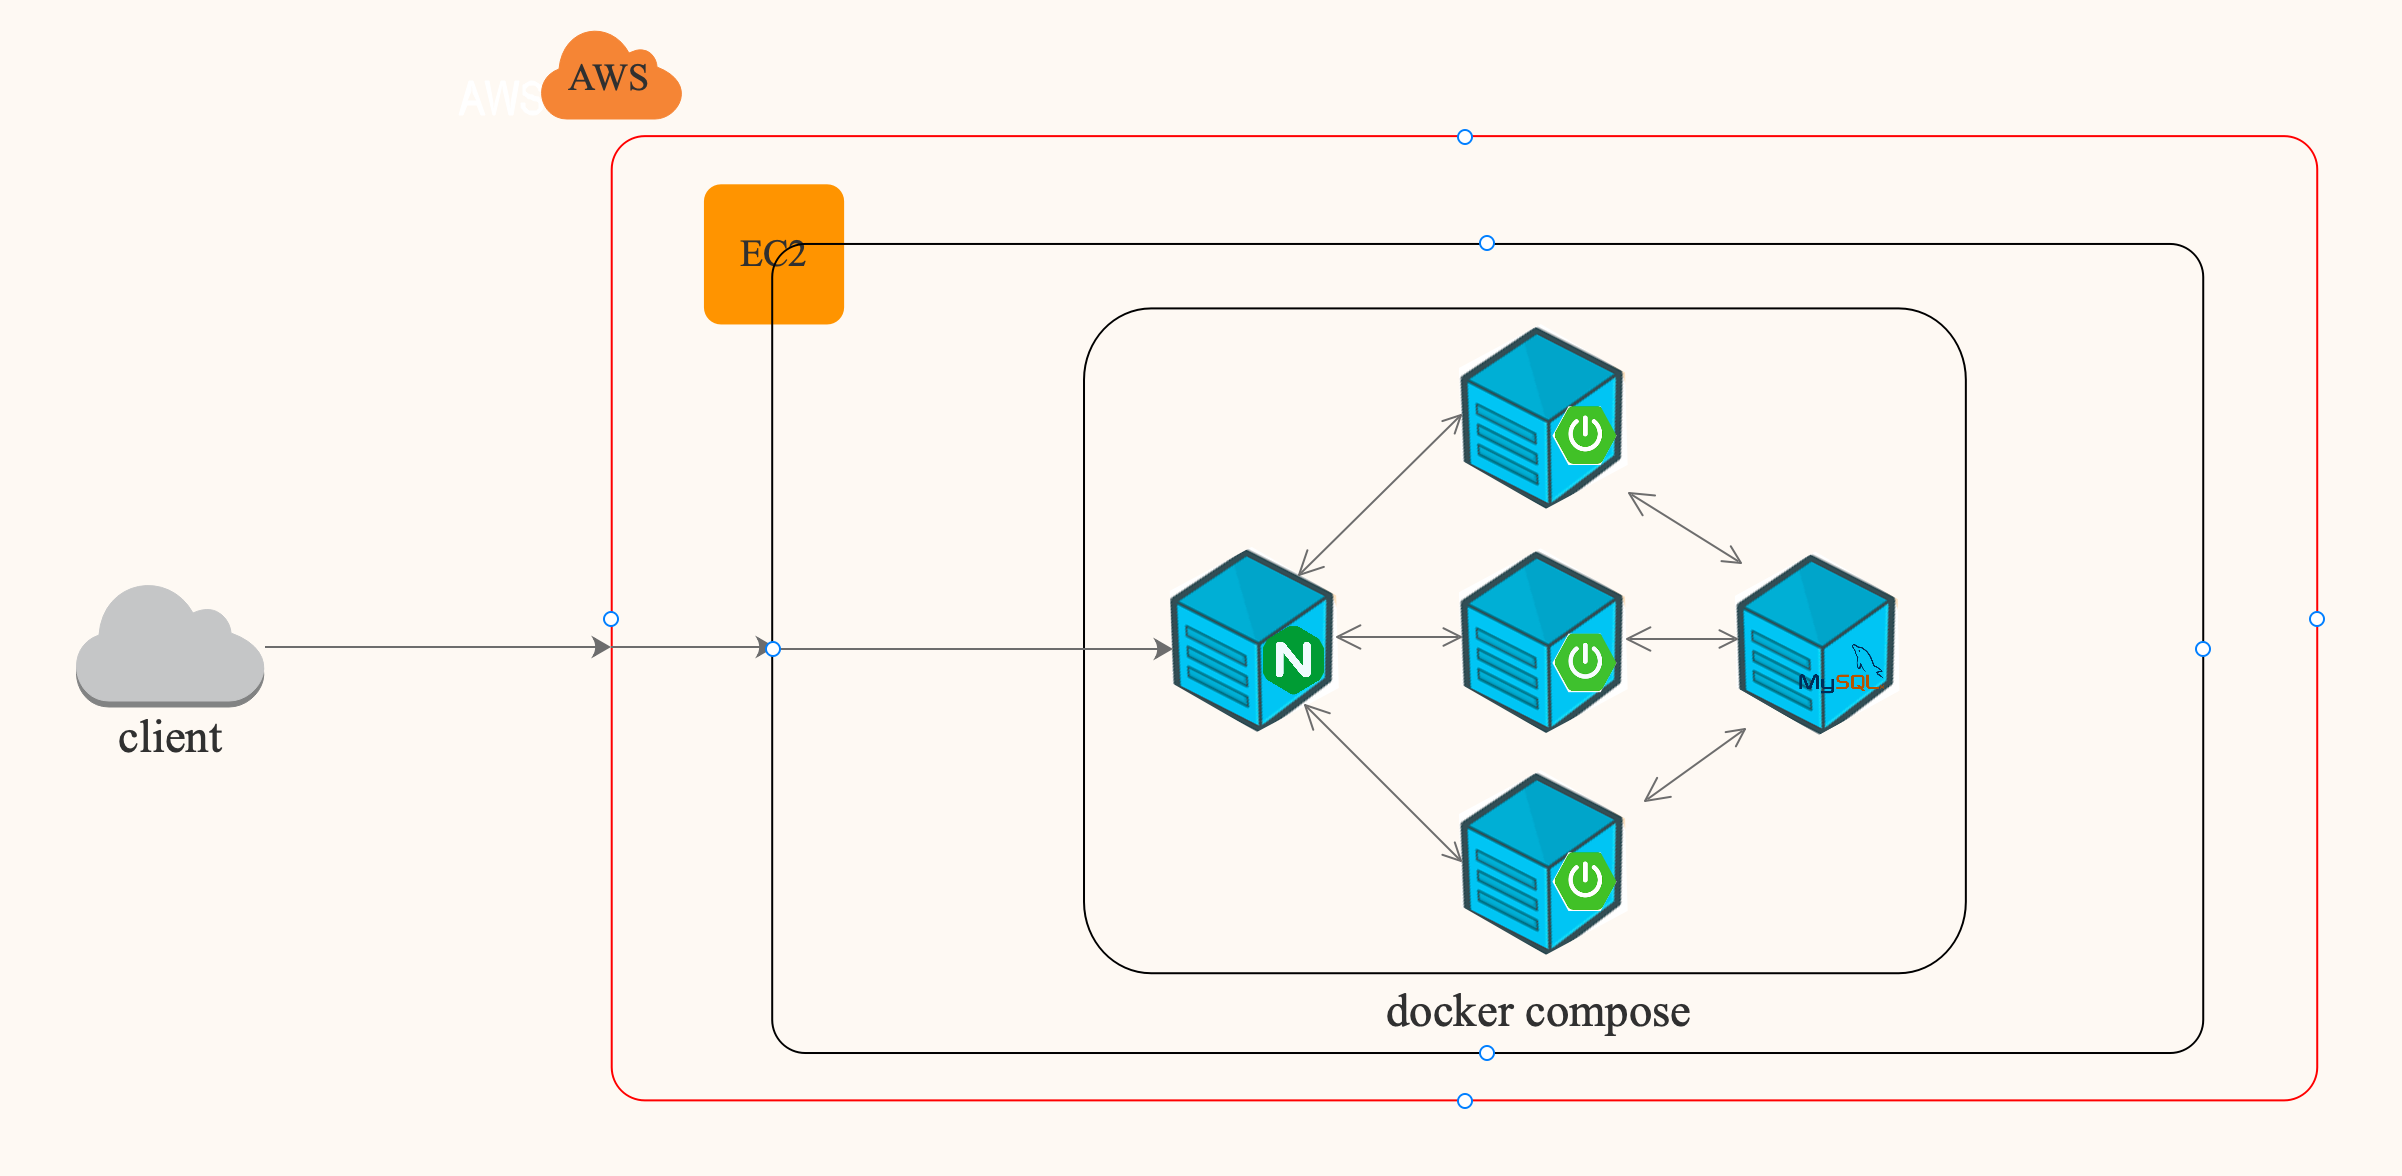
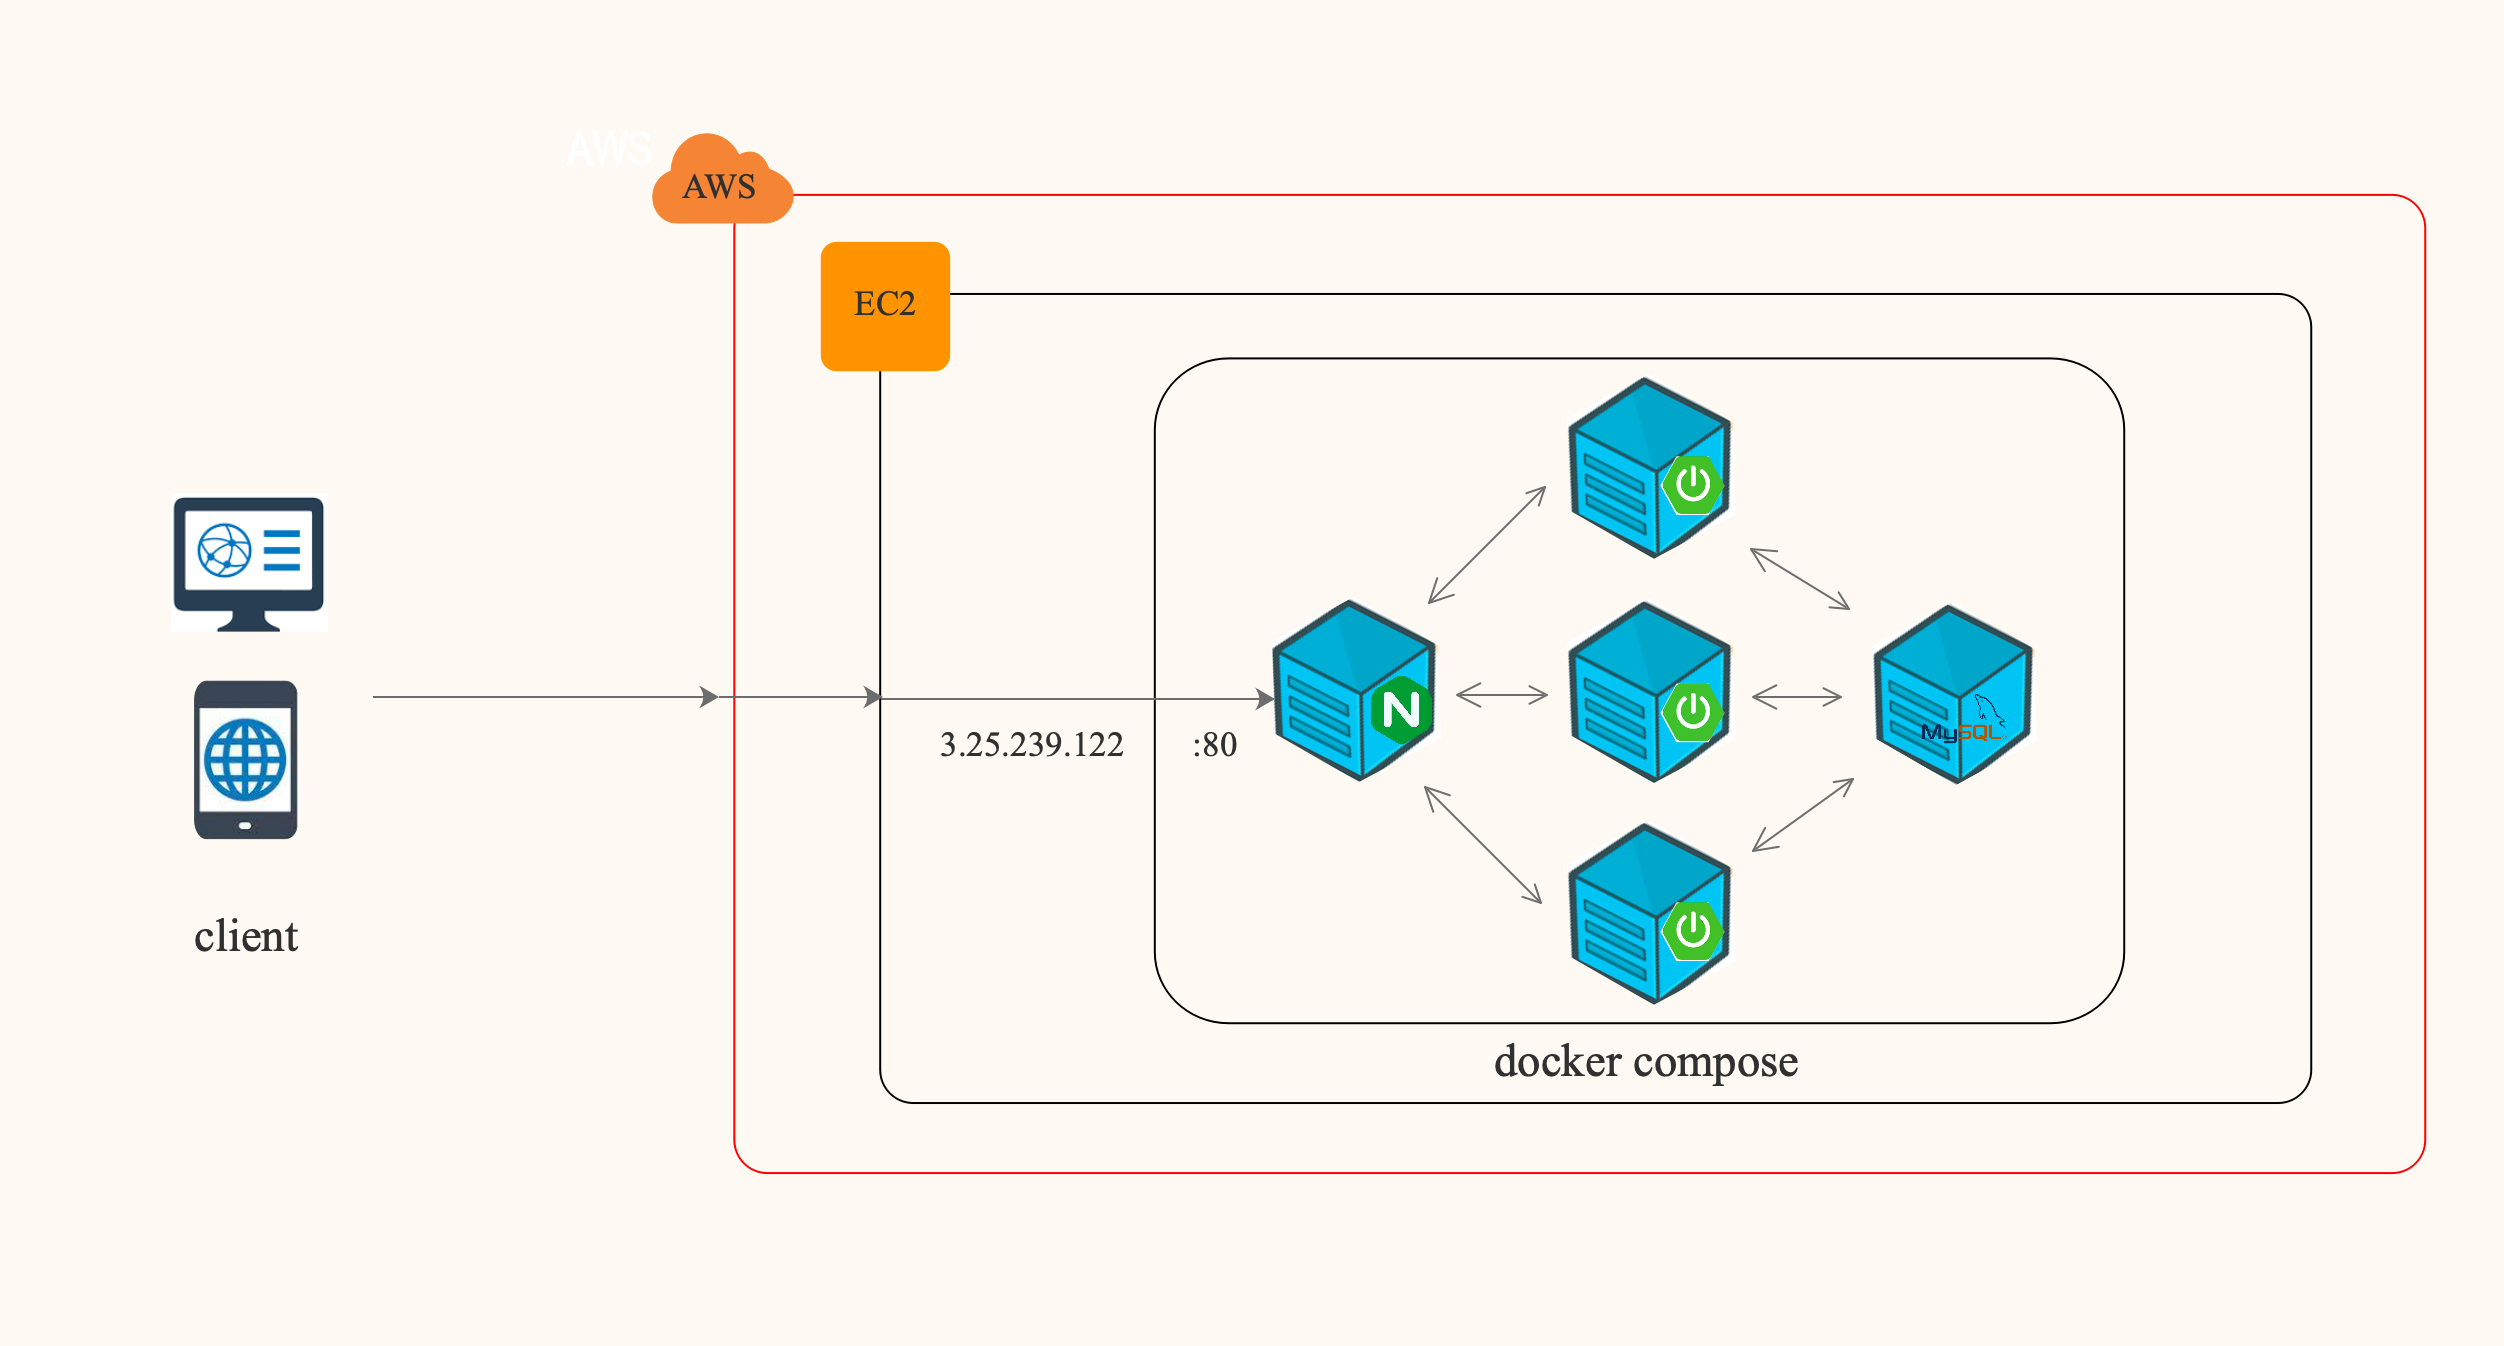
readme

diff --git a/README.md b/README.md
@@ -3,15 +3,89 @@
 지원자 : 김노아
 
 ## Architecture
-<img src="./img/architecture.png" width="600" height="300">
+<img src="./img/architecture.png">
+<br/>
 
 ## TABLE ERD
-<img src="./img/ERD.png" style="float: left;" width="350" height="300">
-<br/><br/><br/><br/><br/><br/><br/><br/><br/><br/><br/><br/><br/><br/>
+<img src="img/erd.png" style="float: left;">
+<br/>
+
+## 구현 설명
+### Spring Security 도입
+- 인증 기능을 제공하기 위해 Spring Security를 도입하였습니다.
+  - 역할 분담과 유연성, Spring Boot의 통합된 보안 기능 제공  
+  - 모듈화되어 확장성 및 커스터마이징을 할 수 있음 
+
+#### Login
+- 로그인을 핸들러에서 처리하는 것이 아닌, 필터단에서 처리하도록 하였습니다. 
+- 핸들러까지 갈 필요가 없으며, 간결하고 명확한 역할 분리를 위해 도입하였습니다.
+- `UsernamePasswordAuthenticationFilter`를 확장하여 구현하였습니다 
+  - 인증을 담당하는 `LoginProvider`를 구현하였습니다.
+  - 각 상황별 역할을 담당하는 `LoginSuccessHandler`, `LoginFailureHandler`를 구현하였습니다. 
+
+#### Authentication with Jwt Token
+- 인증이 필요한 API는 handler까지 요청이 도달하기 전에, 인증 헤더값인 access token 값을 검증을 위해 `JwtAuthenticationFilter`를 거치도록 하였습니다.
+- 인증이 필요하지 않은 API는 spring security 필터체인을 무시하도록 URL RequestMatcher를 설정하였습니다.
+
+#### CustomExceptionHandlerFilter
+- 인증, 인가 예외가 아닌 클라이언트 예외를 처리하기 위해 spring security filter 맨 앞단에 exception을 처리하는 handler를 두었습니다.
+- 로그인 요청 - `LoginInvalidException` 
+    - invalid form 응답 
+-  Secured URL 요청 - `AuthenticationException`, `JwtException`
+    - 올바르지 않은 인증 헤더 응답  
+    - 유효하지 않은 access token 응답   
+
+### GlobalExceptionHandler
+- `@RestControllerAdvice` 어노테이션을 사용
+  - 컨트롤러에서 발생하는 모든 예외를 중앙 집중적으로 처리하도록 설계하였습니다.
+  - 예외 처리 로직이 전체 애플리케이션에 분산되지 않고, 한 곳에서 관리되어 유지보수성과 가독성을 향상시키고자 했습니다.
+- validation 실패 응답 - `MethodArgumentNotValidException`
+- 잘못된 자원 요청 응답 - `IllegalArgumentException`, `NumberFormatException`, `MissingServletRequestParameterException`
+
+### Test
+#### secured URL 접근 허용 어노테이션 사용 
+```java
+@SpringBootTest(webEnvironment = SpringBootTest.WebEnvironment.MOCK)
+@Transactional
+@AutoConfigureMockMvc
+class PostControllerTest {
+    // ...
+
+    @Test
+    @WithUserDetails(value = emailOfExistsUser, userDetailsServiceBeanName = "userService", setupBefore = TestExecutionEvent.TEST_EXECUTION)
+    @DisplayName("edit() 실패 : 유효하지 않은 조회중인 게시글 ID를 전달하고 게시글 수정 요청")
+    void edit_failure_invalid_queryString_value() throws Exception {
+        // ...
+    }
+}
+```
+
+- 게시글 수정 요청을 테스트하기 전에 인증을 성공해야 합니다.
+- 해당 컨트롤러 테스트는 게시글 수정 컨트롤러 핸들러만을 테스트하므로 인증 과정을 거치는 코드가 작성되는 것은 의도에 맞지 않으며 단일 책임 원칙이 위배됩니다.
+- `@WithMockUser`를 사용하여 Security Filter를 거치지 않은 채 핸들러가 요청을 처리할 떄 미리 목 유저로 만들어진 `Authentication` 객체를 `SecurityContext`에 저장하려 하였습니다.
+- 그러나 `UserDetailsService`를 구현한 `UserService`는 `UserDetails`를 확장한 User 도메인 객체를 리턴하므로 핸들러에서 `@AuthenticationPrincipal` 어노테이션으로 인증 객체를 가져올 수 없습니다.
+- 이를 위해 스프링 시큐리티에서는 `UserDetails`의 서브클래스를 리턴하는 커스터마이징된 `UserDetetailsService`를 구현한 서비스를 위한 `@WithUserDetails`를 제공합니다.
+- `@WithUserDetails`는 `UserDetetailsService`의 loadUserByUsername() 메서드를 실제로 호출하여 리턴된 인증객체를 `SecurityContext`에 저장하도록 동작합니다.
+  - `@BeforeAll` 블록에 `UserRepository`를 사용하여 test용 유저 객체를 저장하였습니다.
+  - loadUserByUsername()에서 db에 조회할 때 사용하는 id값을 `@WithUserDetails`(value = emailOfExistsUser) 로 전달하여 가져오도록 하였습니다. 
+- db관련 빈들도 컨테이너에 올렸어야 했으므로 `@SpringBootTest`를 사용하였습니다. 
+  - 컨트롤러 테스트인 `AuthControllerTest`를 보시면 필요한 빈들만 올리는 슬라이싱 테스트로 효율적인 테스트 진행하였습니다.
+    ```java
+    @WebMvcTest(
+        value = AuthController.class,
+        includeFilters = {
+            @ComponentScan.Filter(type = FilterType.ASSIGNABLE_TYPE, classes = {HttpUtils.class, SecurityConfig.class, UserMapper.class})
+        }
+    )
+    class AuthControllerTest {
+    // ...
+    }
+    ```
+<br/>
 
 ## docker-compose를 이용한 기동 가이드
 ### 1. 기동하기
-<img src="gif/docker-compose.gif" width="520" height="270">
+<img src="gif/docker-compose.gif">
 
 ```
 docker-compose up -d --scale application=3
@@ -23,12 +97,14 @@ docker-compose down -v
 ```
 <br/>
 
-## API
-### 1. Sign-Up
-<img src="gif/sign-up.gif" width="520" height="270">
+## API 명세 및 시연 영상
+[swagger 문서](http://3.25.239.122/swagger-ui/index.html)
 
+### 1. Sign-Up
+<img src="gif/sign-up.gif">
+
+#### request 
 `POST /api/auth/sign-up`
-#### request
 ```http
 curl -X POST 
      -H 'Accept: application/json;charset=UTF-8'
@@ -46,11 +122,10 @@ http://3.25.239.122:80/api/auth/sign-up
 <br/>
 
 ### 2. Log-In
-<img src="./gif/login.gif" width="520" height="270">
+<img src="./gif/login.gif">
 
+#### request 
 `POST /api/login`
-
-#### request
 ```http
 curl -X POST 
      -H 'Accept: application/json;charset=UTF-8'
@@ -76,11 +151,11 @@ Set-Cookie: access_token=eyJ0eXAiOiJKV1QiLCJhbGciOiJIUzI1NiJ9.eyJzdWIiOiJBY2Nlc3
 <br/>
 
 ### 3. Post : 특정 게시글 조회
-<img src="./gif/post-get.gif" width="520" height="270">
+<img src="./gif/post-get.gif">
 
+#### request 
 `GET /api/post?id=[post-id]`
-#### request
-```
+```http
 curl -X GET http://3.25.239.122:80/api/post?id=1 
 ```
 
@@ -99,7 +174,7 @@ curl -X GET http://3.25.239.122:80/api/post?id=1
 <br/>
 
 ### 4. Post : 특정 게시글 페이지 조회
-<img src="./gif/post-page-get.gif" width="520" height="270">
+<img src="./gif/post-page-get.gif">
 
 #### request
 ```http                           
@@ -127,11 +202,10 @@ curl -X GET http://3.25.239.122:80/api/post/list?pageNumber=1&
 <br/>
 
 ### 5. Post : 게시글 생성
-<img src="./gif/post-post.gif" width="520" height="270">
+<img src="./gif/post-post.gif">
 
+#### request 
 `POST /api/post`
-
-#### request
 ```http
 curl -X POST 
      -H 'Accept: application/json;charset=UTF-8'
@@ -151,11 +225,11 @@ http://3.25.239.122:80/api/post
 <br/>
 
 ### 6. Post : 게시글 수정
-<img src="./gif/post-put.gif" width="520" height="270">
+<img src="./gif/post-put.gif">
 
+#### request 
 `PUT /api/post?id=[post-id]`
-#### request
-```
+```http
 curl -X PUT 
      -H 'Accept: application/json;charset=UTF-8'
      -H 'Authorization: Bearer [access-token]'
@@ -173,11 +247,11 @@ http://3.25.239.122:80/api/post?id=[post-id]
 <br/>
 
 ### 7. Post : 게시글 삭제
-<img src="./gif/post-delete.gif" width="520" height="270">
+<img src="./gif/post-delete.gif">
 
+#### request 
 `DELETE /api/post?id=[post-id]`
-#### request
-```
+```http
 curl -X DELETE
      -H 'Authorization: Bearer [access-token]' 
 http://3.25.239.122:80/api/post?id=[post-id]
@@ -192,3 +266,11 @@ http://3.25.239.122:80/api/post?id=[post-id]
 ```
 <br/>
 
+## Test result
+### 각각의 컴포넌트들에 대한 단위 테스트 (service, provider, handler)
+### 서비스 환경에서 컨트롤러 테스트 (controller with authentication)
+### 로그인 테스트 (filter)
+
+<img src="img/test-result.png">
+
+모두 성공하였습니다
